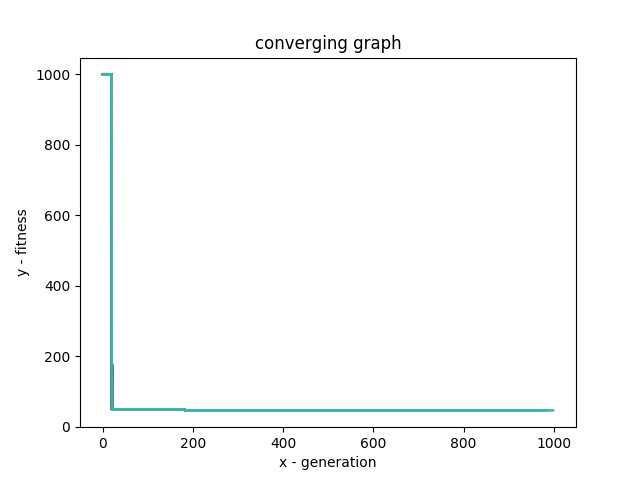
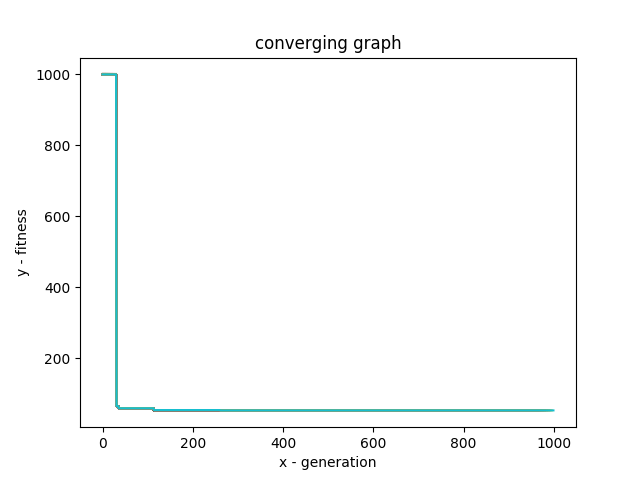
fixed algorithm bug

diff --git a/exam_2/src/Chromosome.py b/exam_2/src/Chromosome.py
@@ -23,7 +23,7 @@ class Chromosome(object):
 	
 	def update_fitness(self):
 		self.fitness = 0
-		p = 999
+
 		m = np.array([
 			[0, 5, 0, 20,4, 0, 0, 14, 0],
 			[5, 0, 6, 0, 7, 0, 0, 0, 0],
@@ -34,29 +34,6 @@ class Chromosome(object):
 			[0, 0, 0, 12, 5, 0, 0, 7, 0],
 			[14, 0, 0, 0, 13, 0, 7, 0, 5],
 			[0, 0, 0, 0, 6, 0, 0, 5, 0],
-			])
-		m_punish = np.array([
-			[p, 5, p, 20,4, p, p, 14, p],
-			[5, p, 6, p, 7, p, p, p, p],
-			[p, 6, p, 15, 10, p, p, p, p],
-			[20, p, 15, p, 20, 7, 12, p, p],
-			[4, 7, 10, 20, p, 3, 5, 13, 6],
-			[p, p, p, 7, 3, p, p, p, p],
-			[p, p, p, 12, 5, p, p, 7, p],
-			[14, p, p, p, 13, p, 7, p, 5],
-			[p, p, p, p, 6, p, p, 5, p],
-			])
-
-		m_preset = np.array([
-			[0, 5, 0, 20,4, 0, 0, 14, 0],
-			[0, 0, 6, 0, 7, 0, 0, 0, 0],
-			[0, 6, 0, 15, 10, 0, 0, 0, 0],
-			[0, 0, 15, 0, 20, 7, 12, 0, 0],
-			[0, 7, 10, 20, 0, 3, 5, 13, 6],
-			[0, 0, 0, 7, 3, 0, 0, 0, 0],
-			[0, 0, 0, 12, 5, 0, 0, 7, 0],
-			[0, 0, 0, 0, 13, 0, 7, 0, 5],
-			[0, 0, 0, 0, 0, 0, 0, 0, 0],
 			])
 
 		r = {
@@ -71,10 +48,10 @@ class Chromosome(object):
 			8 : [4, 7],
 		}
 
-		route_idx = np.where(self.gene == 1)
+		step = len(self.gene) - 1
 
-		for i in range(len(route_idx[0])):
-			distance = m[route_idx[0][i], route_idx[1][i]]
+		for i in range(step):
+			distance = m[self.gene[i], self.gene[i+1]]
 			if distance == 0:# note: 0 means no route connected, it's BAD
 				self.fitness = 999
 				break
@@ -82,29 +59,29 @@ class Chromosome(object):
 				self.fitness += distance
 
 	def mutate_gene(self):
-		dim = self.gene.shape[0]
+		dim = len(self.gene)
 
 		mutated_idx_1 = 0
 		mutated_idx_2 = 0
 
 		while mutated_idx_1 == mutated_idx_2:
-			mutated_idx_1 = choice(list(range(0, dim-1)))
-			mutated_idx_2 = choice(list(range(0, dim-1)))
+			mutated_idx_1 = choice(list(range(0, dim)))
+			mutated_idx_2 = choice(list(range(0, dim)))
 
-		temp_1 = copy.deepcopy(self.gene[mutated_idx_1, :])
-		temp_2 = copy.deepcopy(self.gene[mutated_idx_2, :])
+		temp_1 = copy.deepcopy(self.gene[mutated_idx_1])
+		temp_2 = copy.deepcopy(self.gene[mutated_idx_2])
 
 		self.gene[mutated_idx_1] = temp_2
 		self.gene[mutated_idx_2] = temp_1
 
 
 	def init_route(self):
-		gene = np.zeros((9, 9))
-		remaining_well = [1, 2, 3, 4, 5, 6, 7, 8]
+		gene = []
+		remaining_well = [0, 1, 2, 3, 4, 5, 6, 7, 8]
 
-		for i in range(0, 9 - 1):
+		for i in range(0, 9):
 			next_well = choice(remaining_well)
-			gene[i, next_well] = 1
+			gene.append(next_well)
 			remaining_well.remove(next_well)
 
 		return gene

diff --git a/exam_2/src/utils.py b/exam_2/src/utils.py
@@ -163,28 +163,15 @@ def shuffle_random(A, B):
 	return shuffled
 
 def self_shuffle(A):
-	orig_dim = A.shape[0]
-	# for exam_2, we remove 1st column and last row
-	# after shuffle, we re-added the 1st col and last row
-	temp_A = A[:, range(1, orig_dim)][range(0, orig_dim - 1), :]
-
-	dim = temp_A.shape[0]
-
+	dim = len(A)
 	idx = choice(list(range(1, dim-1))) # skip the 1st and last idex to ensure crossover is done
 
-	top = temp_A[range(idx, dim), :]
-	bot = temp_A[range(0, idx), :]
+	left = A[0:idx]
+	right = A[idx:dim]
 
-	crossed = np.concatenate((top, bot), axis=0)
+	new = right + left
 
-	col_add = np.zeros((dim, 1))
-
-	temp = np.concatenate((col_add, crossed), axis = 1)
-
-	row_add = np.zeros((1, dim+1))
-	final_crossed = np.concatenate((temp, row_add), axis = 0)
-
-	return final_crossed
+	return new
 
 def generate_data_csv(dim_size, dim_space, data_size, train_percent, output_path = "./_data/"):
 	X_train, X_valid = generate_data(dim_size, dim_space, data_size, train_percent)

diff --git a/exam_2/src/GeneticAlgorithm.py b/exam_2/src/GeneticAlgorithm.py
@@ -76,6 +76,7 @@ class GeneticAlgorithm():
             self.cgcurve.append(currnt_fitness)
 
             print("fitness --------: ", currnt_fitness)
+            print("route:  --------: ", self.population[0].gene)
 
             # ################################################## backup save Gene
             if g % 5 == 0:

diff --git a/exam_2/src/_main.py b/exam_2/src/_main.py
@@ -45,9 +45,9 @@ def print_route():
 
 
 if __name__ == '__main__':
-    #main() # main run()
+    main() # main run()
     #debug() # testing & generate dataset
-    print_route()
+    #print_route()
 
     #show_best_gene()
     #generate_data_csv()
